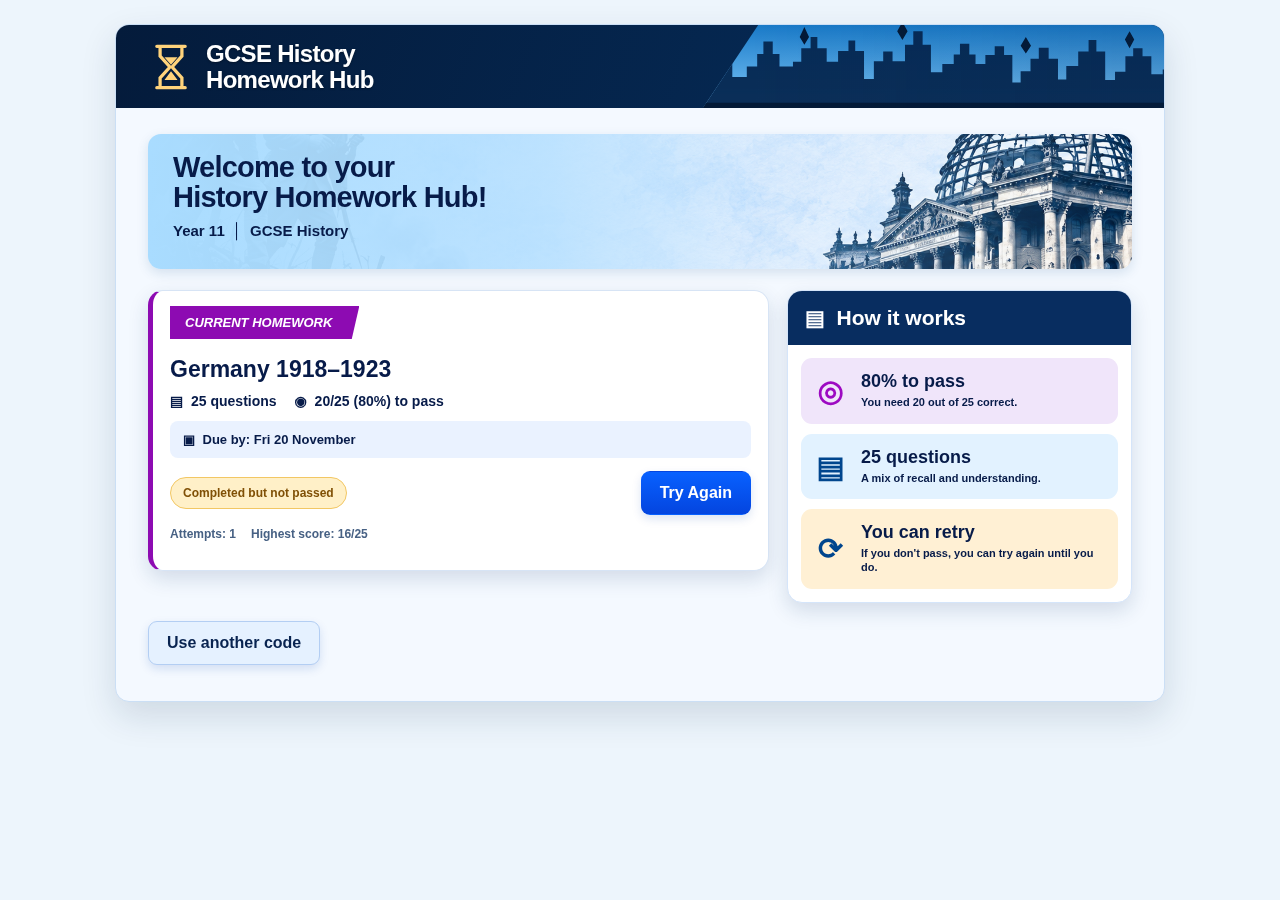
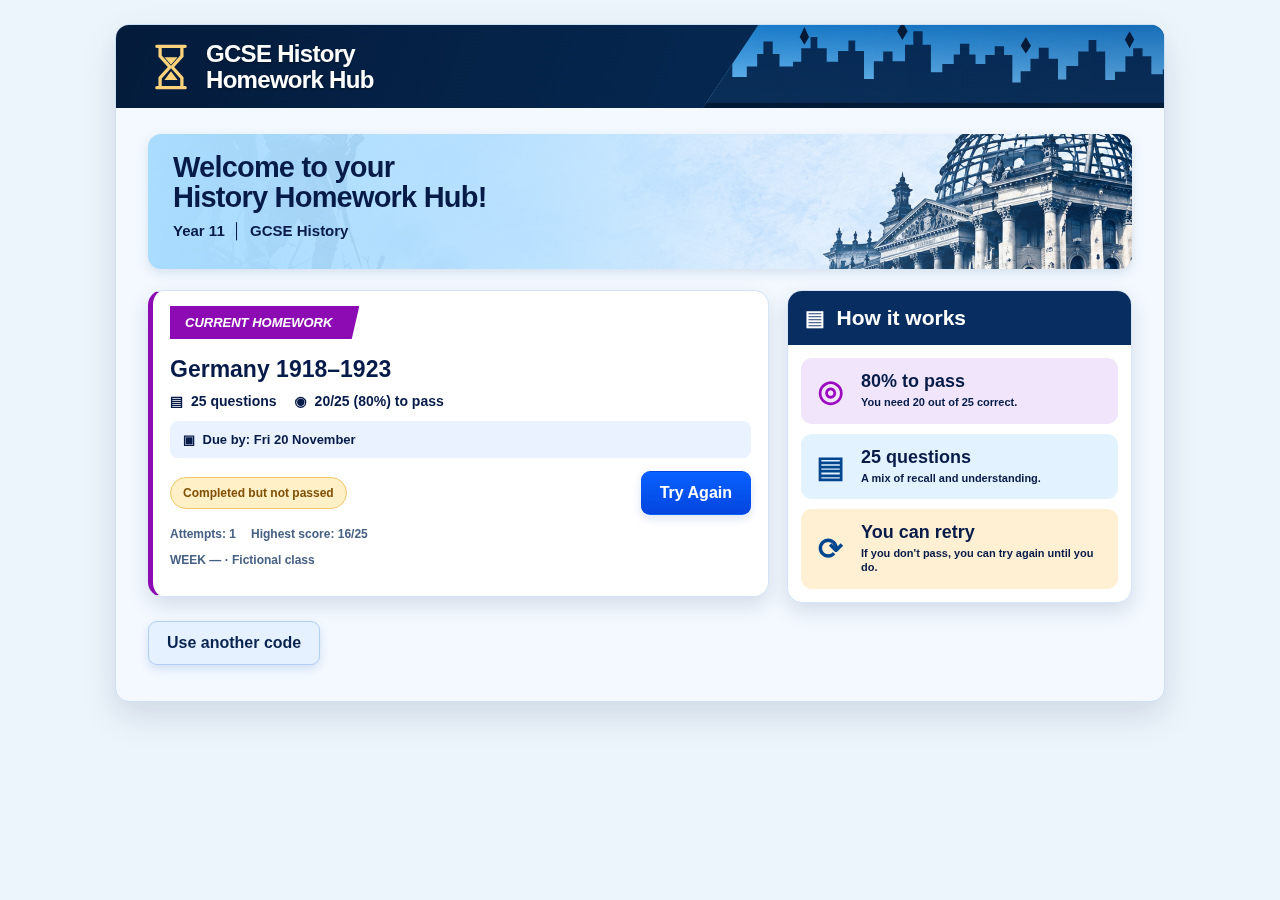
test: record TEST acceptance and preserve existing pupil metadata and heading

Changed region(s): [[0.0938, 0.6222, 0.5938, 0.6844]]

diff --git a/pupil/app.js b/pupil/app.js
@@ -189,7 +189,10 @@ async function loadHome() {
         : "",
       `<div class="card-bottom"><span class="status status-${status[0]}">${status[1]}</span></div>`,
       `<div class="homework-extra"><span>Attempts: <b>${tries}</b></span>`,
-      `<span>Highest score: <b>${best == null ? "Not attempted" : esc(best) + "/" + total}</b></span></div></article>`,
+      `<span>Highest score: <b>${best == null ? "Not attempted" : esc(best) + "/" + total}</b></span></div>`,
+      `<div class="homework-extra"><span>WEEK ${esc(h.week_number ?? "—")} · ${esc(h.class_name)}</span>`,
+      h.topic ? `<span>${esc(h.topic)}</span>` : "",
+      `</div></article>`,
     ].join("");
     const btn = document.createElement("button");
     btn.className = "btn btn-primary";

diff --git a/index.html b/index.html
@@ -24,8 +24,9 @@
               fill="none"
               stroke-linecap="round"
             />
-            <path d="M12 13h12l-6 7zm0 21h12l-6-8z" fill="#ffd37b" /></svg
-          ><strong>GCSE History<br />Homework Hub</strong>
+            <path d="M12 13h12l-6 7zm0 21h12l-6-8z" fill="#ffd37b" />
+          </svg>
+          <h1 class="brand-title">GCSE History<br />Homework Hub</h1>
         </div>
         <div class="castle-strip" aria-hidden="true"></div>
       </header>

diff --git a/pupil/index.html b/pupil/index.html
@@ -23,8 +23,9 @@
               fill="none"
               stroke-linecap="round"
             />
-            <path d="M12 13h12l-6 7zm0 21h12l-6-8z" fill="#ffd37b" /></svg
-          ><strong>GCSE History<br />Homework Hub</strong>
+            <path d="M12 13h12l-6 7zm0 21h12l-6-8z" fill="#ffd37b" />
+          </svg>
+          <h1 class="brand-title">GCSE History<br />Homework Hub</h1>
         </div>
         <div class="castle-strip" aria-hidden="true"></div>
       </header>

diff --git a/pupil/styles.css b/pupil/styles.css
@@ -995,3 +995,10 @@ button:disabled:hover {
 .option:disabled {
   opacity: 1;
 }
+
+/* Preserve the existing page-level heading with the approved brand appearance. */
+.brand-title {
+  font: inherit;
+  letter-spacing: inherit;
+  margin: 0;
+}

diff --git a/docs/pupil-design/README.md b/docs/pupil-design/README.md
@@ -1,0 +1,73 @@
+# Approved pupil design — TEST review
+
+Preview: https://monob26.github.io/gcse-history-homework-hub-test/
+
+Draft PR: https://github.com/monob26/gcse-history-homework-hub/pull/9
+
+The approved appearance is integrated into the existing pupil app. The owner explicitly approved
+Option 1: the supplied HTML is a visual reference only. Unsupported chronology interaction, quiz
+history, Review Answers, prototype navigation and demo data are omitted. No new screen, question
+type, API or backend functionality was added. Passed homework retains the existing disabled
+completed action; results retain their existing return/retry actions.
+
+## Isolation and preservation
+
+The TEST preview is served by the separate `gcse-history-homework-hub-test` repository from
+`r8-pages:/`, with public config/CSP pinned to TEST project `ohkpvuhzvshjglbqyepq`. LIVE project
+`inxsjdogxvqbvxydxmym` is excluded from the outgoing package. The canonical feature branch and draft
+PR are not merged. LIVE hub/teacher heads remain `3c8e298245e805eb58ad8ab9b33818c229838a1d` and
+`632973e4c8384aed2fe6292505d9034aa779c7ed`.
+
+Teacher source, Supabase migrations/policies, shared LIVE config, dependency lock, authentication,
+SMTP and rate settings are unchanged. No LIVE pupil records, codes, class allocations, quiz data or
+secrets were accessed or modified for this design work. The real smoke test used one existing,
+unused fictional TEST pupil; no new pupil/class or teacher account was required. It completed two
+TEST attempts and fifty answer submissions. No teacher sign-in or recovery email was attempted.
+
+The RPC requests/payloads, session-start handling and timer/timeout implementation remain
+byte-identical to the base release; see [preservation checks](preservation.json). Other presentation
+changes retain server marking/pass truth, keyboard radio behaviour, server-derived timing,
+submission locking, inline correct-answer/explanation feedback, original class/week/topic and
+attempt/score data, save/exit, refresh/resume, offline retry and result navigation.
+
+## Visual evidence
+
+[Desktop/mobile screenshot gallery](SCREENSHOTS.md) includes 32 supported states, plus real TEST
+passed/failed results. [Comparison evidence](visual-comparison.json) records all 528 common visual
+style checks passing. Code entry matches the approved geometry, typography and colours at both
+widths; mobile is pixel-identical and desktop differs only in negligible antialiased edge pixels.
+
+Three original artwork assets are extracted unchanged from the approved HTML. No generic imagery,
+external fonts, CDN assets, dependencies, telemetry or screenshot-as-UI substitute is used. Only
+question screens/inline question feedback use the quieter watercolour; all other art follows the
+approved reference. Existing functional controls and timing information necessarily add content
+where the demo omitted them; no existing functionality is removed to force a screenshot match.
+
+## Verification
+
+| Check                                                                     | Result                                                                |
+| ------------------------------------------------------------------------- | --------------------------------------------------------------------- |
+| All five supplied input checksums                                         | PASS                                                                  |
+| Separate TEST project/repository/Pages branch; public TEST config and CSP | PASS                                                                  |
+| Existing R6 browser regressions                                           | PASS: six pupil and eight teacher scenarios                           |
+| R10 pupil keyboard, modal, final-answer/completion retry regressions      | PASS: five scenarios                                                  |
+| Staging guards                                                            | PASS: eleven checks                                                   |
+| New desktop/mobile visual and state tests                                 | PASS: thirty-two scenarios; no overflow, exceptions or CSP violations |
+| Approved visual style checks                                              | PASS: 528 comparisons                                                 |
+| Real TEST start, submit, inline feedback and locking                      | PASS                                                                  |
+| Real TEST save/exit, fresh-page login/resume and preserved deadline       | PASS                                                                  |
+| Real TEST offline recovery, failed attempt and successful retry           | PASS                                                                  |
+| Real TEST completed status with existing completed action                 | PASS                                                                  |
+| Source formatting and whitespace checks                                   | PASS                                                                  |
+
+[Real TEST smoke results](hosted-results.json) are separate from
+[intercepted-response screen tests](visual-test-results.json). Existing security/database evidence
+is reused; no rate-limit burst, password reset, LIVE quiz or schema operation was repeated.
+Published package provenance/byte verification and CI run links are recorded in draft PR #9.
+
+## Review boundary
+
+No unresolved functional question remains after the owner's Option 1 clarification. Review Answers,
+history and chronology are deliberate omissions, not hidden unfinished features. The PR remains
+DRAFT. Await explicit owner approval and school/Veritau clearance; do not merge, promote or deploy
+this design LIVE.

diff --git a/docs/pupil-design/SCREENSHOTS.md b/docs/pupil-design/SCREENSHOTS.md
@@ -26,3 +26,9 @@ the owner explicitly excluded.
 | resume          | [View](screenshots/desktop-resume.png)          | [View](screenshots/mobile-resume.png)          | Existing state retained; no new mock-up screen                                                                      |
 | offline         | [View](screenshots/desktop-offline.png)         | [View](screenshots/mobile-offline.png)         | Existing state retained; no new mock-up screen                                                                      |
 | exit            | [View](screenshots/desktop-exit.png)            | [View](screenshots/mobile-exit.png)            | Existing state retained; no new mock-up screen                                                                      |
+
+## Real TEST smoke evidence
+
+[Hosted failed result](screenshots/hosted-not-passed.png) and
+[hosted passed result](screenshots/hosted-passed.png) use real isolated TEST Supabase responses, not
+mocked payloads. No LIVE request, teacher login or email was involved.
